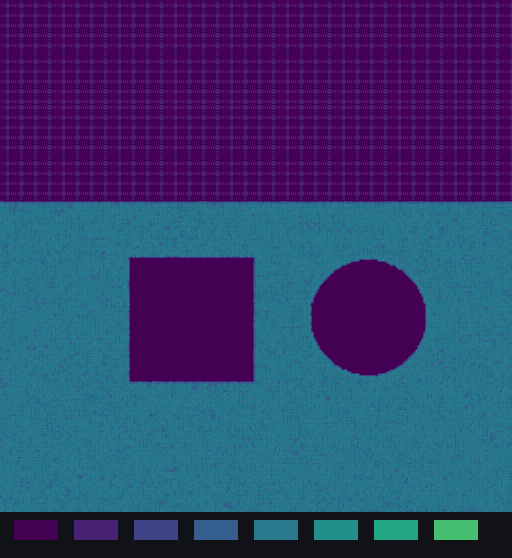
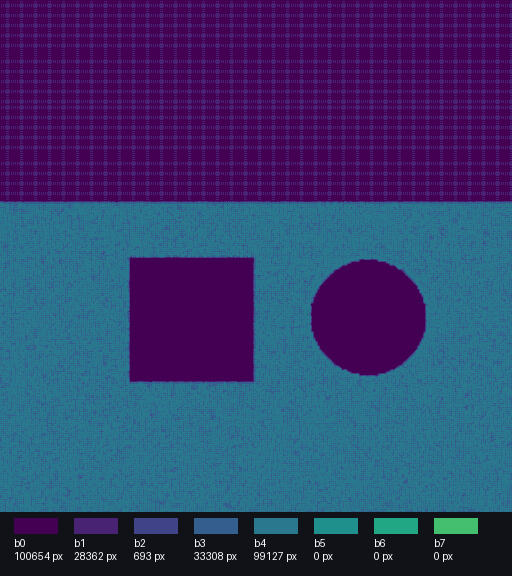
README: centered header with badges, full visual tour, delivery figure; regenerate labeled PNGs
- Header: centered title, tagline, CI/version/license badges, hero overlay figure.

- How-it-works and Measured sections now show every figure (selection, buckets, envelope, pipeline, ROC, both AUC charts).

- Delivery shapes ASCII block replaced by docs/figures/delivery.svg (dark theme, white text).

- Regenerate cost_buckets.png (white bN/count labels) + selection_overlay.png (white caption) from the labeled generator; previous PNGs were stale pre-label artifacts.

Changed region(s): [[0.0, 0.0305, 1.0, 0.9749]]

diff --git a/README.md b/README.md
@@ -1,29 +1,18 @@
-# Stego — hide any file inside a PNG image
+<div align="center">
 
-You have a file. You want it to travel inside an ordinary picture — no suspicious
-attachments, no weird file types, just a PNG that opens normally everywhere.
-Later, you (or your program) pull the exact bytes back out. That's the whole job.
+# Stego
 
-```
-  your file (anything: .exe, .zip, .sh, .bin, ...)
-        |
-        |  stego hide
-        v
-  cover photo --> stego.png  (opens fine, looks the same)
-        |
-        |  stego reveal
-        v
-  your file back, bit-for-bit identical
-```
+**Hide any file inside a PNG image. It travels as an ordinary picture, it arrives back bit-for-bit.**
 
-One standard API, two envelopes: **v4** (modern default — AEAD encryption,
-adaptive ternary embedding) and **v3** (legacy, frozen, still readable).
-You pick the writer; reading is automatic by version. Typical uses: bundling
-a payload with an installer graphic, watermarking builds with their own
-metadata, moving a config through a channel that only allows images, CTF and
-security training. If you need the bytes to *run* somewhere, that's your
-code's job — this library hands you bytes and stops. (How to run them is
-covered below — it is a separate step on purpose.)
+[![CI](https://github.com/najuaircrack/Stego/actions/workflows/stego.yml/badge.svg)](https://github.com/najuaircrack/Stego/actions/workflows/stego.yml)
+[![Version](https://img.shields.io/badge/version-5.0.0-blue)](CHANGELOG.md)
+[![License: MIT](https://img.shields.io/badge/License-MIT-green)](LICENSE)
+
+![Red pixels mark where a 16 KiB payload lands: textured regions carry it, smooth regions stay exact](docs/figures/selection_overlay.png)
+
+*One standard API, two envelopes: **v4** (modern default — AEAD encryption, adaptive ternary embedding) and **v3** (legacy, frozen, still readable). You pick the writer; reading is automatic by version.*
+
+</div>
 
 ## 60-second example
 
@@ -56,30 +45,34 @@ python python/stego_cli.py hide payload.exe --cover photo.png -o out.png --envel
 python python/stego_cli.py reveal out.png -o back.bin [--password ...]
 ```
 
-## How it works (the 30-second version)
+Typical uses: bundling a payload with an installer graphic, watermarking
+builds with their own metadata, moving a config through a channel that only
+allows images, CTF and security training. If you need the bytes to *run*
+somewhere, that's your code's job — this library hands you bytes and stops.
+(How to run them is covered below — it is a separate step on purpose.)
+
+## How it works
 
 Each pixel holds 3 color values (red, green, blue). The v4 envelope changes
 only red and blue, by ±1 at most — invisible to eyes, readable to code —
 while green stays bit-exact so both sides agree *exactly* on where data
-lives, without retries or second-guessing:
+lives, without retries or second-guessing. Texture carries the payload;
+smooth sky stays untouched:
 
-![v4 adaptive placement: textured regions carry the payload, smooth regions stay exact](docs/figures/selection_overlay.png)
+![Cost buckets on a real cover: dark = smooth and expensive, bright = textured and cheap](docs/figures/cost_buckets.png)
 
-Costs come from a wavelet texture map (smooth sky = expensive, texture =
-cheap), and a syndrome-trellis coder finds the globally cheapest flip
-pattern instead of flipping greedily:
-
-![cost buckets on a real cover: dark = smooth/expensive, bright = textured/cheap](docs/figures/cost_buckets.png)
-
+Costs come from a wavelet texture map plus a syndrome-trellis coder that
+finds the globally cheapest flip pattern instead of flipping greedily.
 Before hiding, your file gets authenticated encryption (wrong password or
 any tampering = clean failure, never garbage), and the full 64-byte header
 is covered by the authentication tag:
 
 ![v3 vs v4 header layouts, to scale](docs/figures/envelope.svg)
 
-The full byte-level layout is in `docs/FORMAT.md` — written so a second
-implementation in any language can match it exactly (C++, Python, and Rust
-already do; they prove it against each other in tests). The data flow:
+The full byte-level layout is in [`docs/FORMAT.md`](docs/FORMAT.md) —
+written so a second implementation in any language can match it exactly
+(C++, Python, and Rust already do; they prove it against each other in
+tests). The data flow, both directions:
 
 ![v4 encode/decode pipeline](docs/figures/pipeline.svg)
 
@@ -88,21 +81,26 @@ inspection, not from every analysis. v4 measurably beats v3 against
 classical detectors (RS analysis goes blind, see below) — but a global
 chi-square test still sees high-rate embeds, and no one here claims
 otherwise. If your threat model includes statistical testing, read
-`docs/SECURITY.md` and `docs/ANALYSIS.md` first — numbers included,
-no invisibility claims.
+[`docs/SECURITY.md`](docs/SECURITY.md) and [`docs/ANALYSIS.md`](docs/ANALYSIS.md)
+first — numbers included, no invisibility claims.
 
 ## Measured, not claimed
 
 Classical-detector benchmark (`python/bench_steganalysis.py`, 12 covers ×
-5 methods × 2 rates, AUC 0.5 = blind). Full tables in `docs/ANALYSIS.md`:
+5 methods × 2 rates, AUC 0.5 = blind). Full tables in [`docs/ANALYSIS.md`](docs/ANALYSIS.md):
 
-![detector AUC at 0.25 bpp — v4adapt (green) vs v3 (dashed)](docs/figures/bench_auc_025bpp.svg)
+![ROC curves, clean vs stego at 0.25 bpp — v4 solid, v3 dashed](docs/figures/bench_roc.svg)
+
+![Detector AUC at 0.25 bpp — v4adapt (green) vs v3 (blue)](docs/figures/bench_auc_025bpp.svg)
+
+![Detector AUC at 1.0 bpp — high-rate embeds stay visible to global tests](docs/figures/bench_auc_10bpp.svg)
 
 Headline: RS analysis (AUC 1.00 on v3) drops to coin-flip on v4
 (0.42–0.54, **zero detections at 5% false positives**); second-order
 SPAM features separate STC from greedy (0.90 vs 1.00). PSNR is identical
 across methods at matched rates — the win is *where* (texture) and *how*
-(symmetric, cost-optimal), never "fewer changes".
+(symmetric, cost-optimal), never "fewer changes". At 1.0 bpp the global
+chi-square test still sees everything: rate matters more than method.
 
 ## Using it from code
 
@@ -217,26 +215,12 @@ single `system()` call for throwaway tooling.
 That is the entire boundary: the library proves the bytes are correct
 (checksums, authentication); your code decides they are safe and runs them.
 
-## Delivery shapes (programs that fetch images)
+## Delivery shapes
 
-In practice the image rarely travels next to the program. Common shapes,
-honestly scored:
+In practice the image rarely travels next to the program. Four common
+shapes, honestly scored:
 
-```
-  SHAPE A - bundled image            SHAPE B - downloader stager
-  app ships with out.png beside      app fetches https://host/i.png
-  the binary (or as a resource).     on first run, then extracts+runs.
-  No network. Simplest to            Small distributor, payload never
-  reason about.                      on disk in transit as a binary.
-
-  SHAPE C - scheduled/service runner SHAPE D - memory handoff
-  OS launches your program on a      decode to RAM, execute without
-  trigger; it fetches + runs.       touching disk. Most complex, most
-  Good for updaters; very visible   scrutinized by endpoint products
-  to task/service auditing.         (anonymous executable memory is a
-                                    classic red flag). Only if disk
-                                    writes are truly impossible.
-```
+![Delivery shapes A–D: bundled, downloader, scheduled runner, memory handoff](docs/figures/delivery.svg)
 
 Practical notes that apply to all four: serve images over HTTPS from a
 reputable host (URL reputation is scored independently of content);
